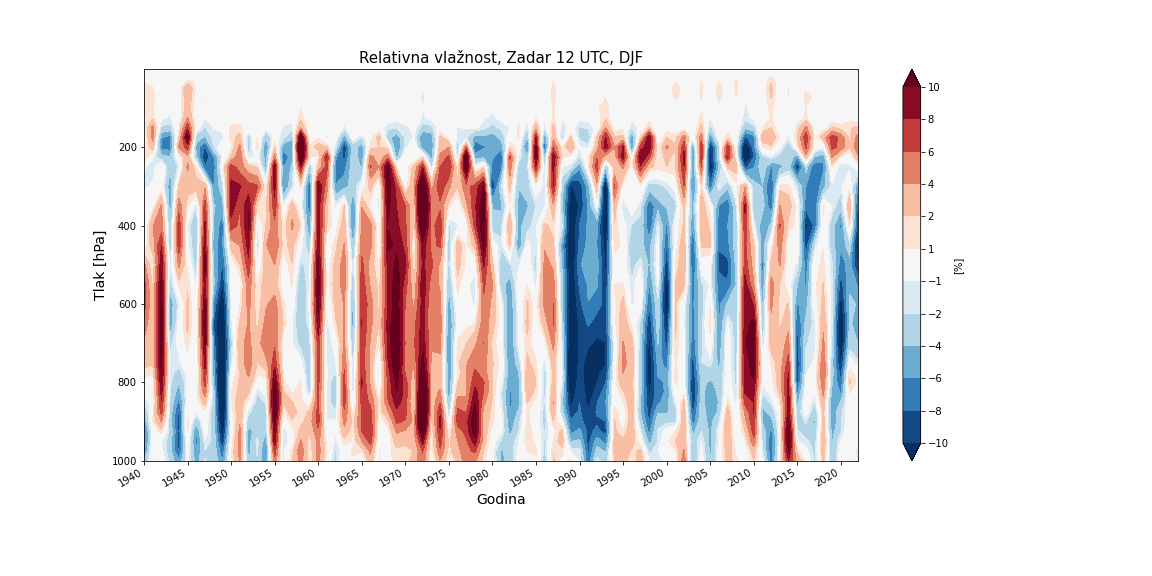
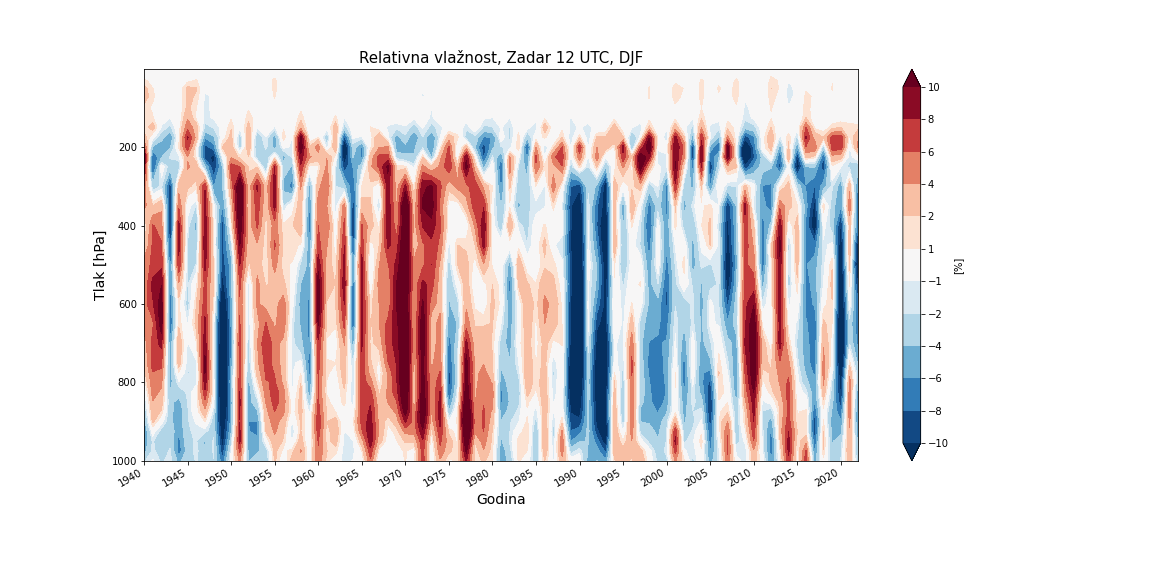
correct DJF calculation

Changed region(s): [[0.125, 0.125, 0.75, 0.8125]]

diff --git a/functions.py b/functions.py
@@ -14,7 +14,8 @@ def get_climatology_by_level(values, levels, season):
                     util.get_average_or_single_value(values, time_step, level)
                 )
             else:
-                value = util.get_seasonal_value(values, time_step, level, season)
+                value = util.get_seasonal_value(
+                    values, time_step, level, season)
                 if value:
                     current_values.append(value)
 
@@ -24,13 +25,13 @@ def get_climatology_by_level(values, levels, season):
 
 
 def get_trend(values, levels, season="none"):
-    anomalies_by_level = []
     climatology_by_level = get_climatology_by_level(values, levels, season)
+    anomalies_by_level = []
 
     for level in range(len(levels)):
         anomalies_by_year = []
         current_values = []
-        counter = 0
+        month = 1
 
         for time_step in range(996):
             if season == "none":
@@ -38,18 +39,27 @@ def get_trend(values, levels, season="none"):
                     util.get_average_or_single_value(values, time_step, level)
                 )
             else:
-                value = util.get_seasonal_value(values, time_step, level, season)
+                value = util.get_seasonal_value(
+                    values, time_step, level, season)
                 if value:
                     current_values.append(value)
 
-            if time_step < 12 and counter == 11 or time_step > 12 and counter == 12:
-                anomalies_by_year.append(
-                    np.mean(current_values) - climatology_by_level[level]
-                )
-                current_values = []
-                counter = 0
+            if season == "DJF":
+                if time_step < 12 and month == 10 or time_step > 12 and month == 12:
+                    anomalies_by_year.append(
+                        np.mean(current_values) - climatology_by_level[level]
+                    )
+                    current_values = []
+                    month = 0
+            else:
+                if month == 12:
+                    anomalies_by_year.append(
+                        np.mean(current_values) - climatology_by_level[level]
+                    )
+                    current_values = []
+                    month = 0
 
-            counter += 1
+            month += 1
 
         years = np.arange(1940, 2023, 1).reshape(-1, 1)
 
@@ -66,7 +76,7 @@ def get_anomalies_by_year_and_level(values, levels, season):
     for level in range(len(levels)):
         anomalies_by_year = []
         current_values = []
-        counter = 0
+        month = 1
 
         for time_step in range(996):
             if season == "none":
@@ -74,18 +84,27 @@ def get_anomalies_by_year_and_level(values, levels, season):
                     util.get_average_or_single_value(values, time_step, level)
                 )
             else:
-                value = util.get_seasonal_value(values, time_step, level, season)
+                value = util.get_seasonal_value(
+                    values, time_step, level, season)
                 if value:
                     current_values.append(value)
 
-            if time_step < 12 and counter == 11 or time_step > 12 and counter == 12:
-                anomalies_by_year.append(
-                    np.mean(current_values) - climatology_by_level[level]
-                )
-                current_values = []
-                counter = 0
+            if season == "DJF":
+                if time_step < 12 and month == 10 or time_step > 12 and month == 12:
+                    anomalies_by_year.append(
+                        np.mean(current_values) - climatology_by_level[level]
+                    )
+                    current_values = []
+                    month = 0
+            else:
+                if month == 12:
+                    anomalies_by_year.append(
+                        np.mean(current_values) - climatology_by_level[level]
+                    )
+                    current_values = []
+                    month = 0
 
-            counter += 1
+            month += 1
 
         anomalies_by_level.append(anomalies_by_year)
 
